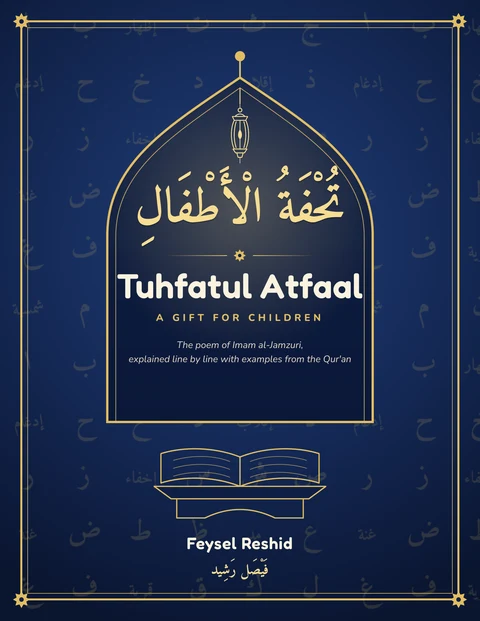
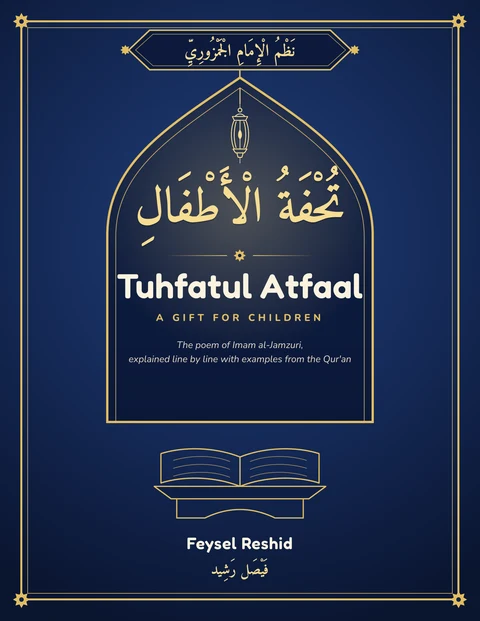
Tuhfatul Atfaal: audio for all 61 lines, final cover, 100-page edition (#345)
* Tuhfatul Atfaal: support recordings for all 61 lines

The app and the online tajweed book now handle lines 32-61 as well: each
later line is checked on the server and uses its recording as soon as the
file is uploaded (until then the app keeps the device voice and the book
hides that play button). Books page lists the 100-page edition.

Claude-Session: https://claude.ai/code/session_01SnzVH5Mpz3DpJqvqFd4Qvm

* Books page: final Tuhfatul Atfaal cover (navy and gold, inscription panel)

Claude-Session: https://claude.ai/code/session_01SnzVH5Mpz3DpJqvqFd4Qvm

---------

diff --git a/tajweed-book/index.html b/tajweed-book/index.html
@@ -143,6 +143,7 @@ header.top h1{font:600 38px/1.1 'Fredoka';margin:2px 0 8px}
 .mqhad{text-align:center}.mqhad .arhad{margin:0;padding-bottom:.15em}
 .mqsig{margin:12px 0 14px auto;width:max-content;text-align:center}.mqsig p{margin:0}.sgn{font:600 22px 'Fredoka';color:#1b2540}.sgna{font:700 22px/1.7 'Amiri';color:#b8862e}
 .mqdua{font:700 21px/1.95 'Amiri';color:#1b2540;text-align:center;margin:6px 0 0;direction:rtl}
+.play.pending{display:none}
 .chlab{margin:8px 0 0;padding:0;list-style:none;text-align:center;font:700 14px 'Nunito';color:#4a4636}
 .chlab li{display:inline-block;margin:3px 4px;padding:2px 10px;border-radius:12px;color:#fff}
 .sortg{display:grid;grid-template-columns:repeat(auto-fill,minmax(250px,1fr));gap:10px;margin-top:8px}
@@ -179,7 +180,7 @@ footer a{color:var(--gold);font-weight:700}
 <button class="toTop" id="toTop" aria-label="Back to top">↑</button>
 <script>
 (function(){
-const AUDIO_MAX=31, AUD='/tuhfatul-atfaal/assets/audio/';
+const AUDIO_MAX=61, AUDIO_UPLOADED=31, AUD='/tuhfatul-atfaal/assets/audio/';
 const KEY='diin-tuhfa-book-v1';
 let store={};try{store=JSON.parse(localStorage.getItem(KEY)||'{}')}catch(e){}
 const save=()=>{try{localStorage.setItem(KEY,JSON.stringify(store))}catch(e){}};
@@ -215,7 +216,7 @@ fetch('data.json').then(r=>r.json()).then(D=>{
     ch.lessons.forEach(l=>{
       total++;
       const verses=l.lines.map(n=>{const w=P[n].ar.split(/\s+/),c=SPLIT[n]||Math.ceil(w.length/2);const nn=String(n).padStart(2,'0');
-        const btn=(x)=>n<=AUDIO_MAX?`<button class="play" style="background:${ch.color}" data-src="${AUD}line-${nn}${x}.mp3" aria-label="Play">🔊</button>`:'';
+        const btn=(x)=>n<=AUDIO_MAX?`<button class="play${n>AUDIO_UPLOADED?' pending':''}" style="background:${ch.color}" data-src="${AUD}line-${nn}${x}.mp3" aria-label="Play">🔊</button>`:'';
         return `<div class="verse"><span class="vn" style="background:${ch.color}">${n}</span><div class="vh" lang="ar" dir="rtl"><span class="half">${esc(w.slice(0,c).join(' '))}${btn('a')}</span><span class="star">✦</span><span class="half">${esc(w.slice(c).join(' '))}${btn('b')}</span></div><p class="ven">${tx(P[n].en)}</p></div>`}).join('');
       const exs=l.examples.map(e=>`<div class="ex"><div class="exq">${e.html}</div><span class="exr">${esc(e.ref)}</span>${e.rule!=='letter'?`<br><span class="rl" style="background:${R[e.rule][2]}">${esc(R[e.rule][0])}</span>`:''}${e.note?`<p class="exn">${tx(e.note)}</p>`:''}</div>`).join('');
       const table=l.table.length?`<div class="table">${l.table.map(x=>`<div class="tr"><span class="l">${x.letter}</span><span class="q">${x.html}</span><span class="r">${x.ref}</span></div>`).join('')}</div>`:'';
@@ -237,6 +238,8 @@ fetch('data.json').then(r=>r.json()).then(D=>{
     }
     book.insertAdjacentHTML('beforeend',h+'</section>');
   });
+  /* lines after 31: show the play button once its recording has been uploaded */
+  document.querySelectorAll('.play.pending').forEach(b=>fetch(b.dataset.src,{method:'HEAD',cache:'no-cache'}).then(r=>{if(r.ok&&!/text\/html/.test(r.headers.get('content-type')||''))b.classList.remove('pending')}).catch(()=>{}));
   const upd=()=>{const n=Object.values(store).filter(Boolean).length;document.getElementById('ptext').textContent=`${n} of ${total} lessons done`;document.getElementById('pbar').style.width=(100*n/total)+'%'};upd();
   document.addEventListener('change',e=>{if(e.target.matches('.done input')){store[e.target.dataset.id]=e.target.checked;e.target.parentElement.classList.toggle('on',e.target.checked);save();upd()}});
   document.addEventListener('click',e=>{

diff --git a/tuhfatul-atfaal/index.html b/tuhfatul-atfaal/index.html
@@ -843,9 +843,13 @@ function buildMapQuiz(worldIndex){
 const worldStarts=[];let tally=0;worlds.forEach(w=>{worldStarts.push(tally);tally+=w.lessons.length});
 const key='tajweed-quest-progress-v3',GAME_KEY='tuhfatul-atfaal',COURSE_VERSION=5,MAP_QUIZ_TOTAL=15,MAP_QUIZ_PASS=12,AVATARS=['🧒','👧','👦','🧕','👳','🦁','🐯','🐼','🦊','🐨','🐧','🦉'];function freshProfile(name='Explorer'){return{name,avatar:'🧒',courseVersion:COURSE_VERSION,unlocked:1,stars:Array(TOTAL_LESSONS).fill(0),coins:0,vocabDone:Array(worlds.length).fill(false),memoryDone:Array(TOTAL_LESSONS).fill(false),teacherAssessments:Array(worlds.length).fill(null),mapQuizScores:Array(worlds.length).fill(null)}}let profile=freshProfile(),cloudUser=null,authMode='signin',authWired=false;let viewWorld=0,current=0,step=0,wrong=0,quizMistakes=0,hintReturn=false,answered=false,soundOn=true,selectedVocab=null,audioCtx=null,signatureDirty=false,lessonQuizQuestions=[],lessonQuizIndex=0,lessonQuizCorrect=0,mapQuizQuestions=[],mapQuizIndex=0,mapQuizCorrect=0;
 window.TAJWEED_AUDIO=window.TAJWEED_AUDIO||{};
-/* Recorded recitation: tuhfatul-atfaal/assets/audio/line-NNa.mp3 (first half) and line-NNb.mp3 (second half). Raise this when more lines are uploaded. */
-const RECORDED_LINES=31;
-Array.from({length:RECORDED_LINES},(_,i)=>i+1).forEach(n=>['a','b'].forEach(h=>{const k='line-'+String(n).padStart(2,'0')+h;if(!window.TAJWEED_AUDIO[k])window.TAJWEED_AUDIO[k]='/tuhfatul-atfaal/assets/audio/'+k+'.mp3'}));
+/* Recorded recitation: tuhfatul-atfaal/assets/audio/line-NNa.mp3 (first half) and line-NNb.mp3 (second half), for all 61 lines.
+   Lines 1-31 are uploaded. For later lines the app first checks that the file is there, so a line that is not uploaded yet
+   keeps using the device voice, and starts using the recording as soon as its file is uploaded. */
+const RECORDED_LINES=61,UPLOADED_LINES=31;
+Array.from({length:RECORDED_LINES},(_,i)=>i+1).forEach(n=>['a','b'].forEach(h=>{const k='line-'+String(n).padStart(2,'0')+h;if(window.TAJWEED_AUDIO[k])return;const url='/tuhfatul-atfaal/assets/audio/'+k+'.mp3';
+  if(n<=UPLOADED_LINES){window.TAJWEED_AUDIO[k]=url;return}
+  fetch(url,{method:'HEAD',cache:'no-cache'}).then(r=>{if(r.ok&&!/text\/html/.test(r.headers.get('content-type')||''))window.TAJWEED_AUDIO[k]=url}).catch(()=>{})}));
 /* Wherever the app reads Arabic aloud (Line Match cards, word games, hints…),
    a whole recorded line or half-line plays the teacher's recording instead
    of the device voice. Anything else still uses the device voice. */

diff --git a/books/index.html b/books/index.html
@@ -317,7 +317,7 @@
         <li>Colouring activities, quest checks, a sorting game, a memorisation tracker and a certificate</li>
       </ul>
       <div class="btn-row"><a class="btn btn-primary" href="/tajweed-book/">Open the interactive book</a><a class="btn btn-primary buy" data-book="tuhfah" href="#">Coming soon on Amazon</a></div>
-      <p class="facts">Colour paperback, 8.5 × 11 in, 92 pages · Free online version with quizzes and audio</p>
+      <p class="facts">Colour paperback, 8.5 × 11 in, 100 pages · Free online version with quizzes and audio</p>
     </div>
   </article>
 </section>
